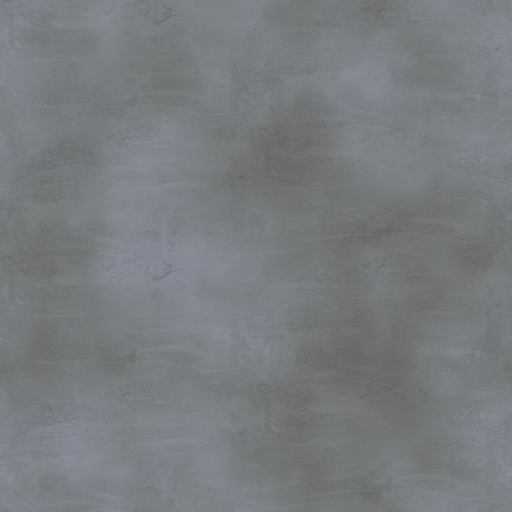
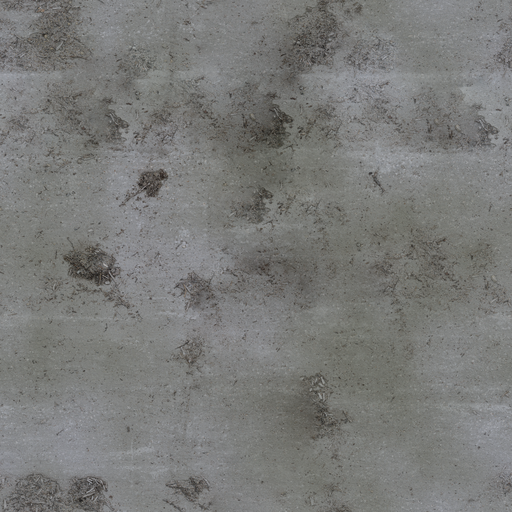
Beton z Poly Haven (dirty_concrete); wycofane zamrożenie grafiki i dźwięku
Materiał concrete: skan dirty_concrete (Poly Haven, CC0) zamiast Concrete034, kafel 3 m, ten sam grading. world_pbr_import.py: wpis z PH wygrywa z MAP, --ambientcg wraca do dawnego skanu. REVIEW_PLAN.md: R0 i D1 (zamrożenie grafiki i dźwięku) wycofane. Wersja 1.7.232.

diff --git a/prototype/tools/world_pbr_import.py b/prototype/tools/world_pbr_import.py
@@ -38,6 +38,7 @@ MAP = {
 # materiały z Poly Haven: nazwa w grze → id zasobu (1K, JPG). Kafel rusty_corrugated_iron ma 2×2 m, fale biegną w poziomie.
 PH = {
     "roof": "rusty_corrugated_iron",    # blacha falista na dachach szop (level3d: samotna warstwa betonu „C” z niebem nad i pustką pod)
+    "concrete": "dirty_concrete",       # beton hal i podłóg (kafel 3 m); wpis z PH wygrywa z MAP, `--ambientcg` wraca do skanu Concrete034
 }
 PH_URL = "https://dl.polyhaven.org/file/ph-assets/Textures/jpg/1k/{id}/{id}_{kind}_1k.jpg"
 
@@ -254,7 +255,7 @@ def main():
     def want(name):
         return only is None or name in only
     for name, asset in MAP.items():
-        if not want(name):
+        if not want(name) or (name in PH and "--ambientcg" not in a):
             continue
         if name in PROC:
             convert_proc(name, out, "--preview" in a)

diff --git a/REVIEW_PLAN.md b/REVIEW_PLAN.md
@@ -39,11 +39,10 @@ i mieć z niej dane zamiast wrażeń. Plan nie dodaje zawartości i nie zmienia 
 
 Każdy etap to osobny PR. R1–R4 idą po kolei; R5 i R7 można robić równolegle, bo nie dotykają rozgrywki.
 
-### R0. Zamrożenie zakresu grafiki i dźwięku (decyzja, bez kodu)
+### R0. ~~Zamrożenie zakresu grafiki i dźwięku~~ — wycofane 2026-10-15
 
-Do wypełnienia GDD §23.3: w grafice i dźwięku tylko poprawki błędów, które blokują sesję. Bez nowych modeli, efektów, materiałów
-i rodzin dźwięków. Z `AUDIO_PLAN.md` zostaje eksperyment F7 (HRTF) i strojenie F6 w grze: F7 czeka na wynik sesji, strojenie F6 można
-zrobić przy przejściu kontrolnym w R4, bo i tak trzeba wtedy grać w słuchawkach.
+Decyzja zniesiona: grafika i dźwięk rozwijane na bieżąco także przed playtestem (testy przed każdym PR-em zostają).
+Z `AUDIO_PLAN.md` F7 (HRTF) nadal czeka na wynik sesji.
 
 ### R1. Test Stalkera (`--stalkertest`, headless)
 
@@ -145,7 +144,7 @@ uruchomiony na runnerze — po pierwszym zielonym przebiegu trzeba tę linię us
 
 | # | Decyzja | Rekomendacja |
 |---|---|---|
-| D1 | Zamrozić grafikę i dźwięk do wypełnienia §23.3? | tak; F7 po sesji |
+| D1 | ~~Zamrozić grafikę i dźwięk do wypełnienia §23.3?~~ | wycofane 2026-10-15; F7 po sesji |
 | D2 | Cofnięcie Stalkera: poprawić GDD czy kod? | GDD; kod dopiero po sesji |
 | D3 | Trudność na sesję | zapamiętywać wybór w `settings.cfg`, domyślnie NORMAL, prowadzący ustawia EASY |
 | D4 | Ślepiec nie słyszy biegu z Quiet steps: zamierzone? | tak i dopisać to do opisu perka; inaczej próg jest przypadkiem |

diff --git a/CHANGELOG.md b/CHANGELOG.md
@@ -272,3 +272,4 @@ wystarcza im historia gita. Serie PR-ów prowadzone własnym planem (np. `AUDIO_
 | 1.7.229 | 2026-10-15 | **Kryjówka: radiostacja znów jako biurko z radiem, nie blacha.** Grupa brył dachów (1.7.228) nazywała się „R” jak znacznik radiostacji w mapie kryjówki, więc na jej miejscu stawał sześcian z blachy falistej zamiast biurka z radiem; grupa nazywa się teraz „roof”. |
 | 1.7.230 | 2026-10-15 | **Poly Haven, część 3: zalana hala B1 i kryjówka.** Akcenty map z modeli Poly Haven (`DECO_MODELS` 12, 15–20): na obu brzegach basenu B1 regały, panele rur, beczki, skrzynie wojskowe, kompresor i wózek; w kryjówce rury na ścianie, beczki, wózek i kompresor w wolnych odstępach między meblami. |
 | 1.7.231 | 2026-10-15 | **Kanistry i maska przeciwgazowa z Poly Haven.** Dwie nowe dekoracje map (`DECO_MODELS` 21–22): rdzawe kanistry w obozie patrolu (1.1), Składzie, pompowni, hali B1 i kryjówce oraz maska z wężem i filtrem wisząca na ścianie wnętrz. Amunicja, apteczka i zaopatrzenie bez zmian. |
+| 1.7.232 | 2026-10-15 | **Beton z Poly Haven.** Materiał `concrete` (hale, podłogi, ściany z `C`) to skan `dirty_concrete` (Poly Haven, CC0) zamiast ambientCG Concrete034: plamy brudu i okruchy zamiast smug szpachli, kafel 3 m (`per_m` 0,33), ten sam grading nocny. `world_pbr_import.py`: wpis z `PH` wygrywa z `MAP`, flaga `--ambientcg` wraca do dawnego skanu. |

diff --git a/prototype/art/world3d/CREDITS.md b/prototype/art/world3d/CREDITS.md
@@ -8,7 +8,7 @@ Skany pochodzą z [ambientCG](https://ambientcg.com) — licencja **CC0 1.0** (d
 
 | Materiał w grze | Asset ambientCG |
 |---|---|
-| concrete | Concrete034 |
+| concrete | Poly Haven `dirty_concrete` (od 1.7.232; poprzednio ambientCG Concrete034) |
 | metal | MetalPlates013 |
 | grate | MetalWalkway013 |
 | plank | Planks037A |
